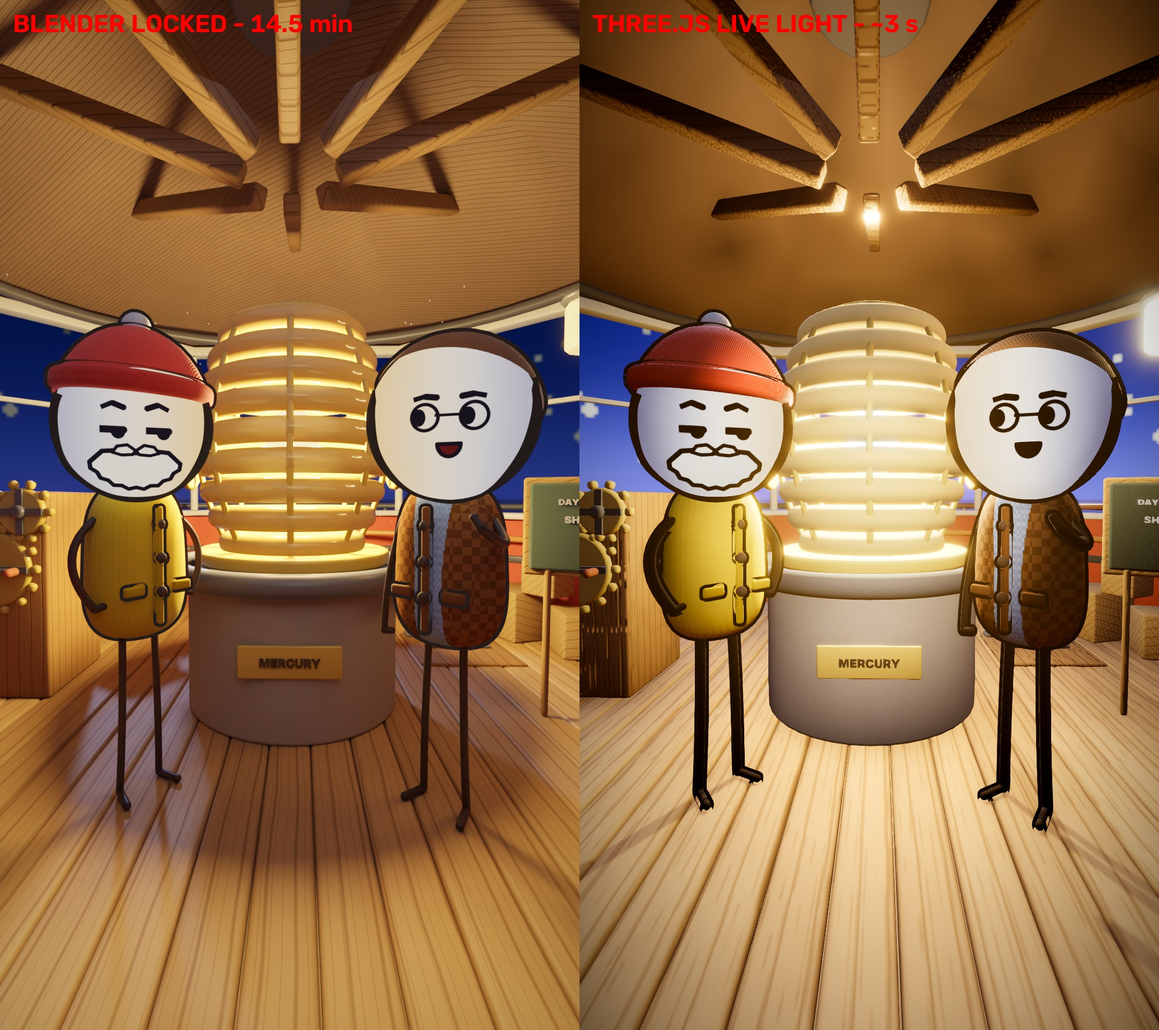
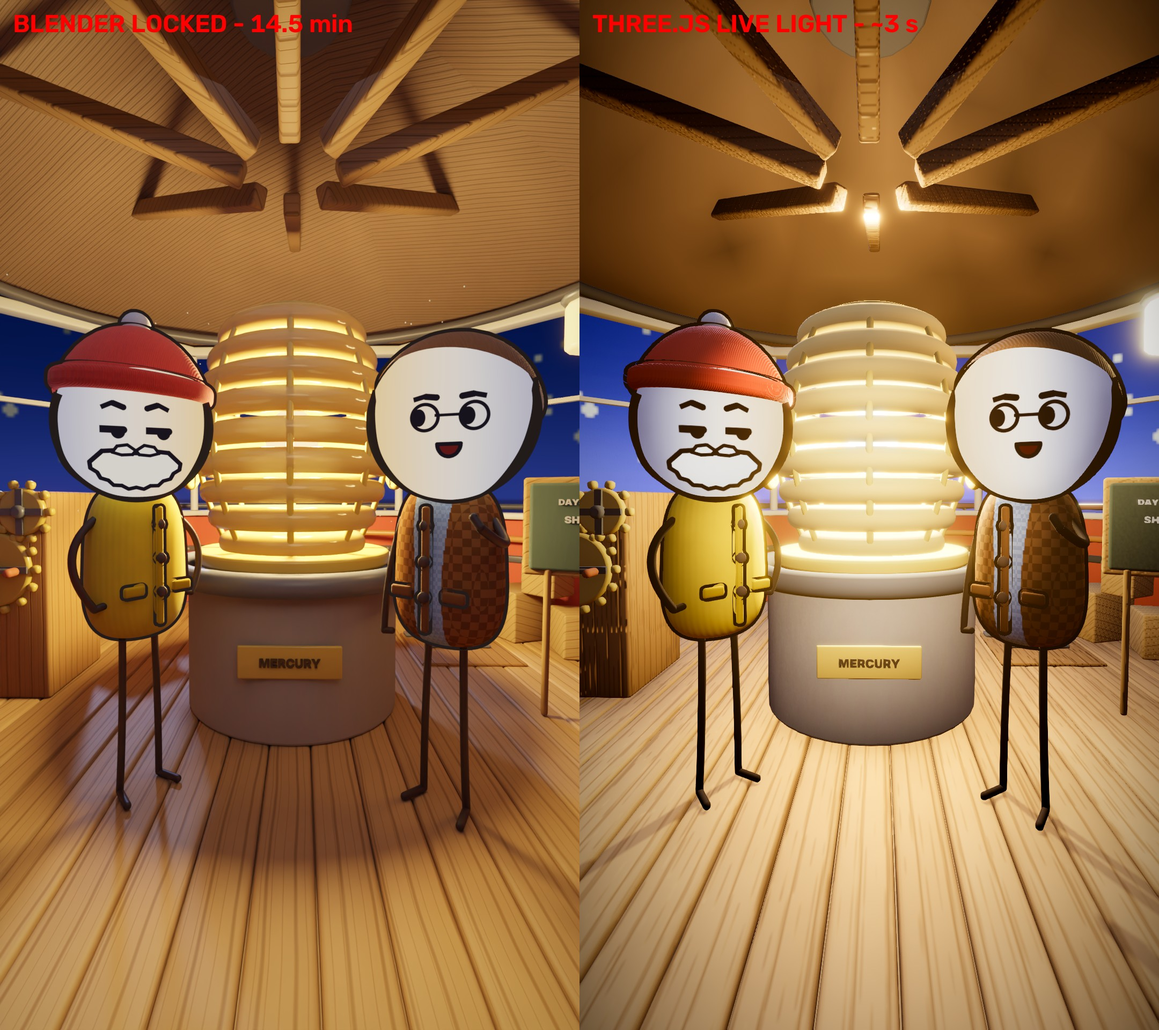
three.js test: thin ink limbs without outline, face colours converted once (red mouth back)
Claude-Session: https://claude.ai/code/session_01B5sgCVepJEDXiVLGvcjf3z

diff --git a/production/look_dev/threejs_v12/main.js b/production/look_dev/threejs_v12/main.js
@@ -42,7 +42,7 @@ const surface = (name) => new THREE.MeshStandardMaterial({ map: tex(`${name}_alb
 // face drawing projected from the camera direction, centred (scale 2.15 R), hat wearers dropped 0.10 R
 function faceMat(h) {
   const X = b2t(h.X), Y = b2t(h.Y), Z = new THREE.Vector3().crossVectors(X, Y);
-  const ft = tl.load(A + h.face); ft.colorSpace = THREE.SRGBColorSpace;
+  const ft = tl.load(A + h.face); ft.colorSpace = THREE.NoColorSpace;   // raw sRGB values: the shader converts once (lin)
   return new THREE.ShaderMaterial({
     uniforms: { hc: { value: b2t(h.center) }, X: { value: X }, Y: { value: Y }, Z: { value: Z }, R: { value: h.R }, drop: { value: h.drop },
       ls: { value: h.light_side }, face: { value: ft }, k: { value: FACE }, GW: { value: +(P.gw ?? 0.45) } },
@@ -76,6 +76,7 @@ const meshes = []; gltf.scene.traverse((o) => { if (o.isMesh) meshes.push(o); })
 for (const o of meshes) {
   const n = o.name;
   if (n.startsWith("set_in") || n.startsWith("set_out")) { o.material = surface(n.startsWith("set_in") ? "set_in" : "set_out"); o.receiveShadow = true; }
+  else if (n.startsWith("limbs")) { o.material = surface("limbs"); o.castShadow = true; }
   else if (n.startsWith("chars")) { o.material = surface("chars"); o.castShadow = true; o.receiveShadow = true; hull(o, 0.012); }
   else if (heads[n]) { o.material = faceMat(heads[n]); o.castShadow = true; hull(o, 0.006); }
   else if (n.endsWith("_outline")) { o.material = new THREE.MeshBasicMaterial({ color: inkCol }); }

diff --git a/production/look_dev/threejs_v12/export_scene.py b/production/look_dev/threejs_v12/export_scene.py
@@ -38,19 +38,20 @@ def __EXPORT__():
     shutil.copy(os.path.join(OUTD, "sky_night_v12.png"), os.path.join(OUTD, "sky.png"))
     # ---- sort objects into groups
     skip = lambda o: o.name in ("sky",) or o.name.startswith(("dust", "cam_target"))
-    chars, heads, rings, setin, setout = [], [], [], [], []
+    chars, limbs, heads, rings, setin, setout = [], [], [], [], [], []
     for o in list(bpy.data.objects):
         if o.type not in ('MESH', 'CURVE', 'FONT') or skip(o): continue
         n = o.name
         if n.endswith("_head"): heads.append(o); continue
         if n.endswith("_outline"): rings.append(o); continue
-        if n.startswith(("keeper", "engineer")): chars.append(o); continue
+        if n.startswith(("keeper", "engineer")):   # ink limbs (arms, legs, feet, finger hooks, joints) get no outline
+            (limbs if (o.type == 'CURVE' or "_joint" in n) else chars).append(o); continue
         bb = [o.matrix_world @ Vector(c) for c in o.bound_box]; c = sum(bb, Vector()) / 8; size = max((bb[6] - bb[0]).length, 0)
         (setin if (c.xy.length < 3.6 and -0.5 < c.z < 4.5 and size < 9) else setout).append(o)
-    for o in chars + setin + setout + heads:   # outlines are redrawn in three.js; keep bevels (applied by convert)
+    for o in chars + limbs + setin + setout + heads:   # outlines are redrawn in three.js; keep bevels (applied by convert)
         for md in [m for m in o.modifiers if m.type == 'SOLIDIFY']: o.modifiers.remove(md)
     out = []
-    for name, objs, size in (("set_in", setin, 4096), ("set_out", setout, 2048), ("chars", chars, 2048)):
+    for name, objs, size in (("set_in", setin, 4096), ("set_out", setout, 2048), ("chars", chars, 2048), ("limbs", limbs, 512)):
         objs = B.to_mesh(objs); j = B.join(objs, name); B.unwrap([j], margin=0.002)
         alb = B.bake_pass([j], 'DIFFUSE', size, 1, filt=['COLOR'])
         sc.render.bake.normal_space = 'TANGENT'; nrm = B.bake_pass([j], 'NORMAL', size, 1)

diff --git a/production/look_dev/threejs_v12/README.md b/production/look_dev/threejs_v12/README.md
@@ -4,5 +4,5 @@ Rebuilds the LOCKED v12 frame with three.js real-time lighting to compare agains
 2. Serve a folder containing `index.html`, `main.js`, `assets/`, `node_modules/` (three@0.170.0, postprocessing@6.36.4, n8ao@1.9.4).
 3. `node render.mjs ROOT out.png "tm=ACES_FILMIC&kpt=0.008&kfill=25&hemi=1.3&sat=0.12&face=0.95&kbounce=14"`
 Result (cloud, software WebGL, 1080x1920): ~2.5–2.7 s per frame after the first; export 2 min once.
-Known gaps vs locked: no light bounce (ceiling flat/brown), no soft shadow pools, limbs too thick (outline on thin tubes),
-lens glow weaker, engineer's mouth loses its red. Point-light shadows fail in software WebGL → lamp shadow from a spotlight.
+Known gaps vs locked: no light bounce (ceiling flat/brown), no soft shadow pools,
+lens glow weaker (limbs + mouth colour fixed). Point-light shadows fail in software WebGL → lamp shadow from a spotlight.
